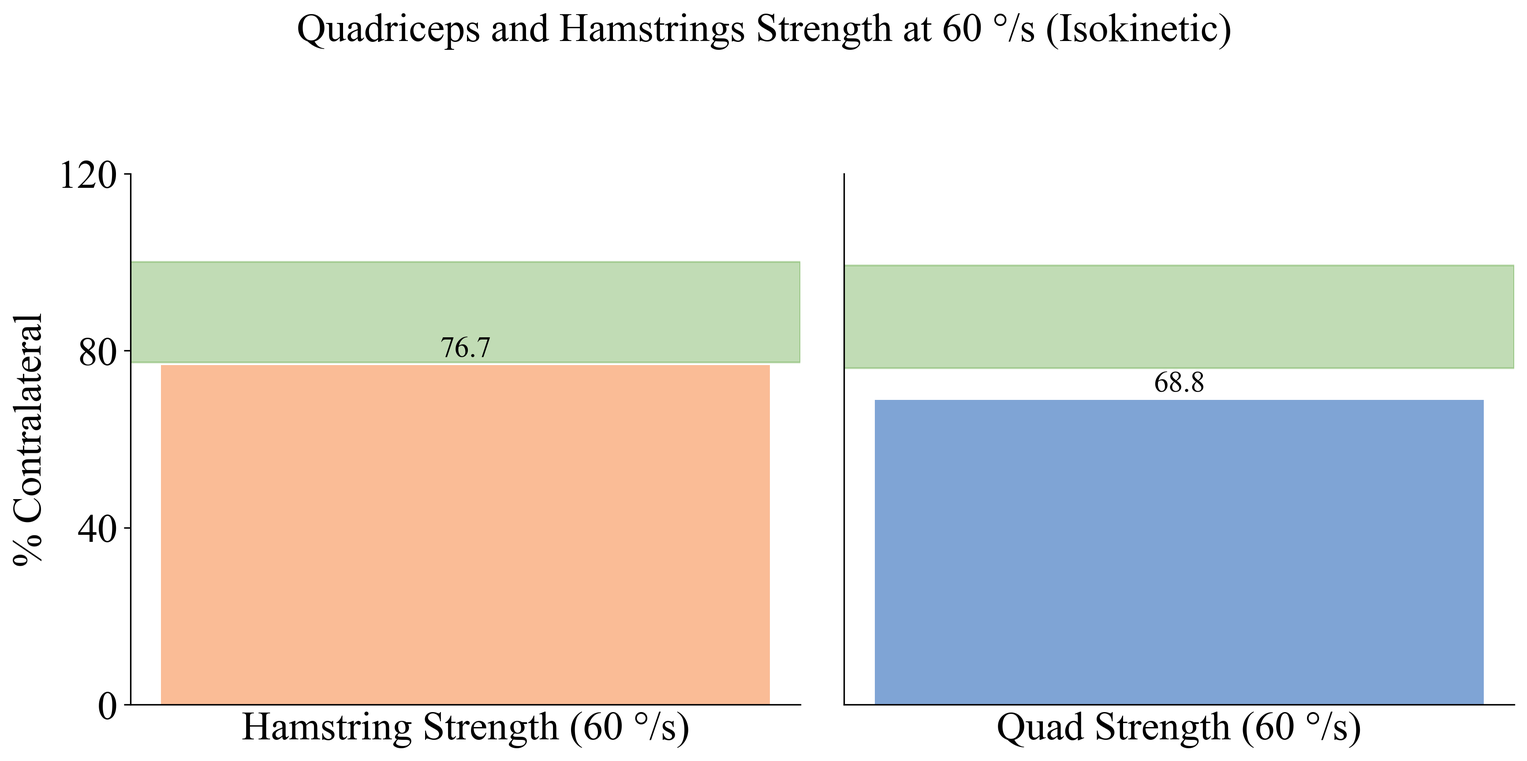
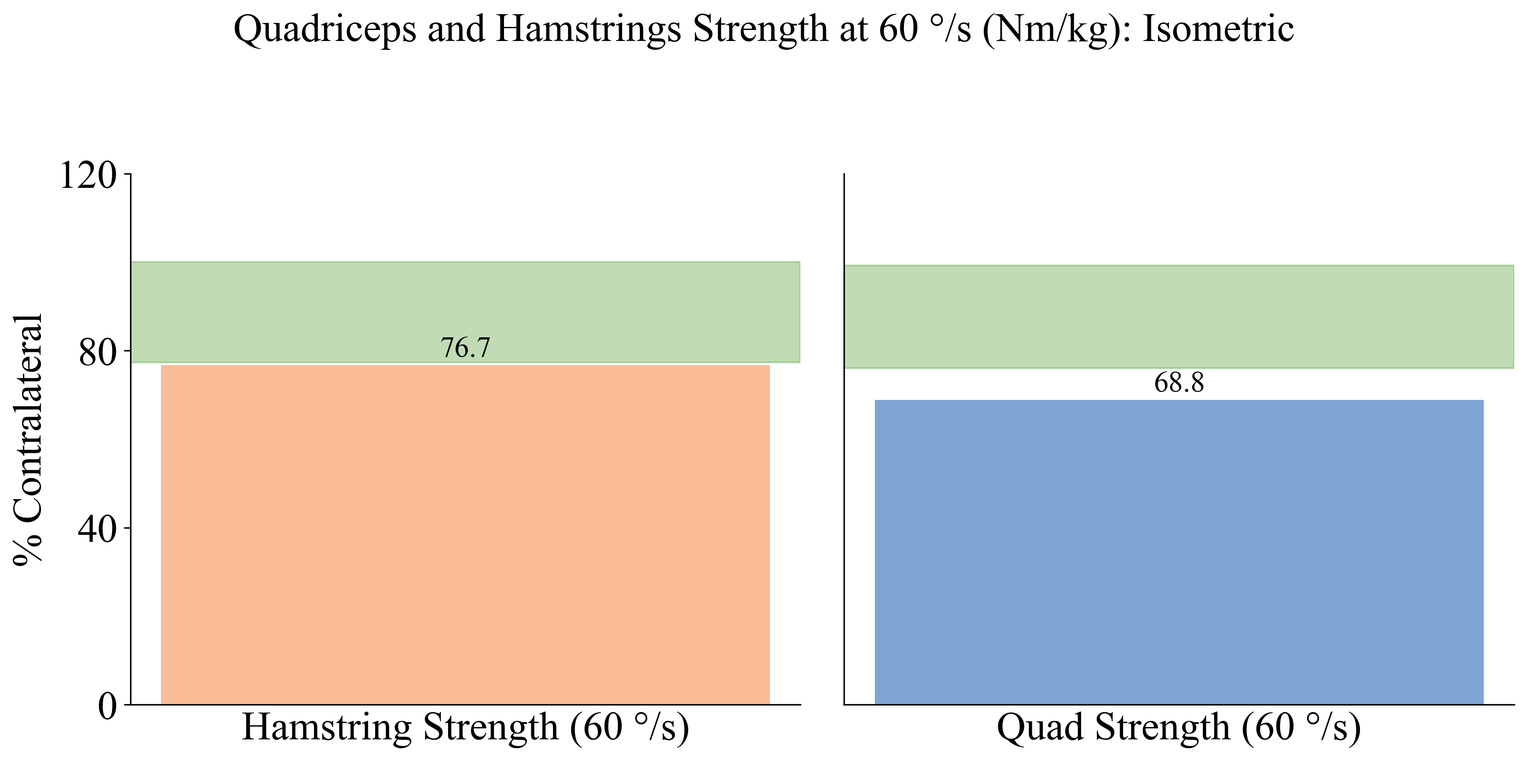
fixing titles

Changed region(s): [[0.1559, 0.0, 0.842, 0.0614]]

diff --git a/docs/dataviz.html b/docs/dataviz.html
@@ -208,7 +208,7 @@ pre > code.sourceCode > span > a:first-child::before { text-decoration: underlin
 </header>
 
 
-<div id="35de912a" class="cell" data-execution_count="1">
+<div id="361eca6f" class="cell" data-execution_count="1">
 <div class="sourceCode cell-code" id="cb1"><pre class="sourceCode python code-with-copy"><code class="sourceCode python"><span id="cb1-1"><a href="#cb1-1" aria-hidden="true" tabindex="-1"></a><span class="co">#import libraries</span></span>
 <span id="cb1-2"><a href="#cb1-2" aria-hidden="true" tabindex="-1"></a><span class="im">import</span> matplotlib.pyplot <span class="im">as</span> plt</span>
 <span id="cb1-3"><a href="#cb1-3" aria-hidden="true" tabindex="-1"></a><span class="im">import</span> numpy <span class="im">as</span> np</span>
@@ -219,15 +219,15 @@ pre > code.sourceCode > span > a:first-child::before { text-decoration: underlin
 <span id="cb1-8"><a href="#cb1-8" aria-hidden="true" tabindex="-1"></a><span class="im">import</span> warnings</span>
 <span id="cb1-9"><a href="#cb1-9" aria-hidden="true" tabindex="-1"></a>warnings.filterwarnings(<span class="st">"ignore"</span>)</span></code><button title="Copy to Clipboard" class="code-copy-button"><i class="bi"></i></button></pre></div>
 </div>
-<div id="f83a4248" class="cell" data-execution_count="2">
+<div id="47898319" class="cell" data-execution_count="2">
 <div class="sourceCode cell-code" id="cb2"><pre class="sourceCode python code-with-copy"><code class="sourceCode python"><span id="cb2-1"><a href="#cb2-1" aria-hidden="true" tabindex="-1"></a><span class="co">#Load in cleaned data</span></span>
 <span id="cb2-2"><a href="#cb2-2" aria-hidden="true" tabindex="-1"></a>data <span class="op">=</span> pd.read_csv(<span class="st">'./ACLR_data.csv'</span>)</span></code><button title="Copy to Clipboard" class="code-copy-button"><i class="bi"></i></button></pre></div>
 </div>
-<div id="e7d06db6" class="cell" data-execution_count="3">
+<div id="91e4b063" class="cell" data-execution_count="3">
 <div class="sourceCode cell-code" id="cb3"><pre class="sourceCode python code-with-copy"><code class="sourceCode python"><span id="cb3-1"><a href="#cb3-1" aria-hidden="true" tabindex="-1"></a><span class="co">#Getting an interest patient for example chart</span></span>
 <span id="cb3-2"><a href="#cb3-2" aria-hidden="true" tabindex="-1"></a>interest_patient <span class="op">=</span> data[data[<span class="st">'record_id'</span>] <span class="op">==</span> <span class="dv">1473</span>]</span></code><button title="Copy to Clipboard" class="code-copy-button"><i class="bi"></i></button></pre></div>
 </div>
-<div id="34daf524" class="cell" data-execution_count="4">
+<div id="0ad485b4" class="cell" data-execution_count="4">
 <div class="sourceCode cell-code" id="cb4"><pre class="sourceCode python code-with-copy"><code class="sourceCode python"><span id="cb4-1"><a href="#cb4-1" aria-hidden="true" tabindex="-1"></a>interest_patient.head()</span>
 <span id="cb4-2"><a href="#cb4-2" aria-hidden="true" tabindex="-1"></a><span class="bu">print</span>(interest_patient[<span class="st">'lsi_ext_mvic_60'</span>])</span></code><button title="Copy to Clipboard" class="code-copy-button"><i class="bi"></i></button></pre></div>
 <div class="cell-output cell-output-stdout">
@@ -241,7 +241,7 @@ Name: lsi_ext_mvic_60, dtype: float64</code></pre>
 2059    68.81
 2060    70.27
 Name: lsi_ext_mvic_60, dtype: float64</code></pre>
-<div id="f6ca8ad9" class="cell" data-execution_count="5">
+<div id="16876437" class="cell" data-execution_count="5">
 <div class="sourceCode cell-code" id="cb7"><pre class="sourceCode python code-with-copy"><code class="sourceCode python"><span id="cb7-1"><a href="#cb7-1" aria-hidden="true" tabindex="-1"></a>average_acl_rsi_per_visit <span class="op">=</span> data.groupby(<span class="st">'tss_dashboard'</span>)[<span class="st">'acl_rsi'</span>].mean()</span>
 <span id="cb7-2"><a href="#cb7-2" aria-hidden="true" tabindex="-1"></a><span class="bu">print</span>(<span class="st">'Mean ACL RSI at Visit:'</span>, average_acl_rsi_per_visit)</span>
 <span id="cb7-3"><a href="#cb7-3" aria-hidden="true" tabindex="-1"></a>iqr_per_time <span class="op">=</span> {}</span>
@@ -279,7 +279,7 @@ Preoperative             NaN
 Name: acl_rsi, dtype: float64
 IQR for each time period: {'13 to 24 months': 37.285, '3 to 4 months': 35.0, '5 to 7 months': 33.3, '8 to 12 months': 31.975, 'Not Reported': 37.7225, 'Preoperative': nan}
 IQR for ACL RSI: 36.67</code></pre>
-<div id="312dcb71" class="cell" data-execution_count="6">
+<div id="5214cddc" class="cell" data-execution_count="6">
 <div class="sourceCode cell-code" id="cb10"><pre class="sourceCode python code-with-copy"><code class="sourceCode python"><span id="cb10-1"><a href="#cb10-1" aria-hidden="true" tabindex="-1"></a><span class="co">#Set font and font size</span></span>
 <span id="cb10-2"><a href="#cb10-2" aria-hidden="true" tabindex="-1"></a>rcParams[<span class="st">'font.family'</span>] <span class="op">=</span> <span class="st">'Times New Roman'</span></span>
 <span id="cb10-3"><a href="#cb10-3" aria-hidden="true" tabindex="-1"></a>rcParams[<span class="st">'font.size'</span>] <span class="op">=</span> <span class="dv">22</span>  </span>
@@ -342,14 +342,14 @@ IQR for ACL RSI: 36.67</code></pre>
 </div>
 </div>
 </div>
-<div id="d457b4d7" class="cell" data-execution_count="7">
+<div id="477e7c07" class="cell" data-execution_count="7">
 <div class="sourceCode cell-code" id="cb11"><pre class="sourceCode python code-with-copy"><code class="sourceCode python"><span id="cb11-1"><a href="#cb11-1" aria-hidden="true" tabindex="-1"></a>visit1_data <span class="op">=</span> data[data[<span class="st">'redcap_event_name'</span>] <span class="op">==</span> <span class="st">'visit_1_arm_1'</span>] <span class="co">#New Dataset for only Visit 1 Data</span></span></code><button title="Copy to Clipboard" class="code-copy-button"><i class="bi"></i></button></pre></div>
 </div>
-<div id="3479d21d" class="cell" data-execution_count="8">
+<div id="b1561191" class="cell" data-execution_count="8">
 <div class="sourceCode cell-code" id="cb12"><pre class="sourceCode python code-with-copy"><code class="sourceCode python"><span id="cb12-1"><a href="#cb12-1" aria-hidden="true" tabindex="-1"></a>visit2_data <span class="op">=</span> data[data[<span class="st">'redcap_event_name'</span>] <span class="op">==</span> <span class="st">'visit_2_arm_1'</span>] <span class="co">#New Dataset for only Visit 2 Data</span></span></code><button title="Copy to Clipboard" class="code-copy-button"><i class="bi"></i></button></pre></div>
 </div>
 <p>The below code chunks calculate IQR for the Isokinetic LSI graph.</p>
-<div id="7605e07b" class="cell" data-execution_count="9">
+<div id="d01532b2" class="cell" data-execution_count="9">
 <div class="sourceCode cell-code" id="cb13"><pre class="sourceCode python code-with-copy"><code class="sourceCode python"><span id="cb13-1"><a href="#cb13-1" aria-hidden="true" tabindex="-1"></a>q1 <span class="op">=</span> visit2_data[<span class="st">'lsi_ext_isok_60'</span>].quantile(<span class="fl">0.25</span>)</span>
 <span id="cb13-2"><a href="#cb13-2" aria-hidden="true" tabindex="-1"></a>q3 <span class="op">=</span> visit2_data[<span class="st">'lsi_ext_isok_60'</span>].quantile(<span class="fl">0.75</span>)</span>
 <span id="cb13-3"><a href="#cb13-3" aria-hidden="true" tabindex="-1"></a>iqr <span class="op">=</span> q3 <span class="op">-</span> q1</span>
@@ -365,7 +365,7 @@ IQR for ACL RSI: 36.67</code></pre>
 <pre><code>65.38
 91.4
 26.02000000000001</code></pre>
-<div id="b8b3dcac" class="cell" data-execution_count="10">
+<div id="6b0ee89f" class="cell" data-execution_count="10">
 <div class="sourceCode cell-code" id="cb16"><pre class="sourceCode python code-with-copy"><code class="sourceCode python"><span id="cb16-1"><a href="#cb16-1" aria-hidden="true" tabindex="-1"></a>q21 <span class="op">=</span> visit2_data[<span class="st">'lsi_flex_isok_60'</span>].quantile(<span class="fl">0.25</span>)</span>
 <span id="cb16-2"><a href="#cb16-2" aria-hidden="true" tabindex="-1"></a>q23 <span class="op">=</span> visit2_data[<span class="st">'lsi_flex_isok_60'</span>].quantile(<span class="fl">0.75</span>)</span>
 <span id="cb16-3"><a href="#cb16-3" aria-hidden="true" tabindex="-1"></a>iqr2 <span class="op">=</span> q23 <span class="op">-</span> q21</span>
@@ -381,7 +381,7 @@ IQR for ACL RSI: 36.67</code></pre>
 <pre><code>80.9320467425
 101.671707325
 20.739660582499994</code></pre>
-<div id="8c5bc8fb" class="cell" data-execution_count="11">
+<div id="81a2e53b" class="cell" data-execution_count="11">
 <div class="sourceCode cell-code" id="cb19"><pre class="sourceCode python code-with-copy"><code class="sourceCode python"><span id="cb19-1"><a href="#cb19-1" aria-hidden="true" tabindex="-1"></a>interest_patient[<span class="st">'lsi_flex_mvic_60'</span>].value_counts() <span class="co">#getting values to graph for patient of interest (we are focusing on visit2)</span></span></code><button title="Copy to Clipboard" class="code-copy-button"><i class="bi"></i></button></pre></div>
 <div class="cell-output cell-output-display" data-execution_count="43">
 <pre><code>lsi_flex_mvic_60
@@ -396,7 +396,7 @@ Name: count, dtype: int64</code></pre>
 76.74    1
 89.58    1
 Name: count, dtype: int64</code></pre>
-<div id="34f54a60" class="cell" data-execution_count="12">
+<div id="25dc3be9" class="cell" data-execution_count="12">
 <div class="sourceCode cell-code" id="cb22"><pre class="sourceCode python code-with-copy"><code class="sourceCode python"><span id="cb22-1"><a href="#cb22-1" aria-hidden="true" tabindex="-1"></a>interest_patient[<span class="st">'lsi_ext_mvic_60'</span>].value_counts() <span class="co">#getting values to graph for patient of interest (we are focusing on visit2)</span></span></code><button title="Copy to Clipboard" class="code-copy-button"><i class="bi"></i></button></pre></div>
 <div class="cell-output cell-output-display" data-execution_count="44">
 <pre><code>lsi_ext_mvic_60
@@ -411,7 +411,7 @@ Name: count, dtype: int64</code></pre>
 68.81    1
 70.27    1
 Name: count, dtype: int64</code></pre>
-<div id="4b412c60" class="cell" data-execution_count="13">
+<div id="769aa49d" class="cell" data-execution_count="13">
 <div class="sourceCode cell-code" id="cb25"><pre class="sourceCode python code-with-copy"><code class="sourceCode python"><span id="cb25-1"><a href="#cb25-1" aria-hidden="true" tabindex="-1"></a>x_axis <span class="op">=</span> [<span class="st">'Running'</span>, <span class="st">'Squatting'</span>, <span class="st">'Landing'</span>, <span class="st">'Bilateral Jump'</span>] <span class="co">#Labels for x-axis</span></span>
 <span id="cb25-2"><a href="#cb25-2" aria-hidden="true" tabindex="-1"></a>scores <span class="op">=</span> [<span class="fl">89.4</span>, <span class="fl">76.8</span>, <span class="fl">44.3</span>, <span class="fl">68.3</span>] <span class="co">#Values to plot for the bars</span></span>
 <span id="cb25-3"><a href="#cb25-3" aria-hidden="true" tabindex="-1"></a></span>
@@ -480,7 +480,7 @@ Name: count, dtype: int64</code></pre>
 </div>
 </div>
 </div>
-<div id="79d4d09c" class="cell" data-execution_count="14">
+<div id="72fcdb1f" class="cell" data-execution_count="14">
 <div class="sourceCode cell-code" id="cb26"><pre class="sourceCode python code-with-copy"><code class="sourceCode python"><span id="cb26-1"><a href="#cb26-1" aria-hidden="true" tabindex="-1"></a>labels_mvic <span class="op">=</span> [<span class="st">'Hamstring Strength (60 °/s)'</span>] <span class="co">#First subplot label</span></span>
 <span id="cb26-2"><a href="#cb26-2" aria-hidden="true" tabindex="-1"></a>labels_isok <span class="op">=</span> [<span class="st">'Quad Strength (60 °/s)'</span>] <span class="co">#Second subplot label</span></span>
 <span id="cb26-3"><a href="#cb26-3" aria-hidden="true" tabindex="-1"></a>scores_ham <span class="op">=</span> [<span class="fl">68.75</span>] <span class="co">#LSI patient value for hamstring strength (Isokinetic)</span></span>
@@ -525,7 +525,7 @@ Name: count, dtype: int64</code></pre>
 <span id="cb26-42"><a href="#cb26-42" aria-hidden="true" tabindex="-1"></a>    ax.set_yticklabels([<span class="dv">0</span>, <span class="dv">40</span>, <span class="dv">80</span>, <span class="dv">120</span>], fontsize<span class="op">=</span><span class="dv">22</span>)</span>
 <span id="cb26-43"><a href="#cb26-43" aria-hidden="true" tabindex="-1"></a></span>
 <span id="cb26-44"><a href="#cb26-44" aria-hidden="true" tabindex="-1"></a><span class="co">#Overall Graph Title</span></span>
-<span id="cb26-45"><a href="#cb26-45" aria-hidden="true" tabindex="-1"></a>fig.suptitle(<span class="st">'Quadriceps and Hamstrings Strength at 60 °/s (Isokinetic)'</span>, fontsize<span class="op">=</span><span class="dv">22</span>)</span>
+<span id="cb26-45"><a href="#cb26-45" aria-hidden="true" tabindex="-1"></a>fig.suptitle(<span class="st">'Quadriceps and Hamstrings Strength at 60 °/s (Nm/kg): Isokinetic'</span>, fontsize<span class="op">=</span><span class="dv">22</span>)</span>
 <span id="cb26-46"><a href="#cb26-46" aria-hidden="true" tabindex="-1"></a>plt.tight_layout(rect<span class="op">=</span>[<span class="dv">0</span>, <span class="dv">0</span>, <span class="dv">1</span>, <span class="fl">0.95</span>])</span>
 <span id="cb26-47"><a href="#cb26-47" aria-hidden="true" tabindex="-1"></a></span>
 <span id="cb26-48"><a href="#cb26-48" aria-hidden="true" tabindex="-1"></a><span class="co"># Saving the graph</span></span>
@@ -541,7 +541,7 @@ Name: count, dtype: int64</code></pre>
 </div>
 </div>
 <p>The below code chunks calculate IQR for the Isometric LSI graph.</p>
-<div id="48a008d1" class="cell" data-execution_count="15">
+<div id="9f2eec20" class="cell" data-execution_count="15">
 <div class="sourceCode cell-code" id="cb27"><pre class="sourceCode python code-with-copy"><code class="sourceCode python"><span id="cb27-1"><a href="#cb27-1" aria-hidden="true" tabindex="-1"></a>q_1 <span class="op">=</span> visit2_data[<span class="st">'lsi_ext_mvic_60'</span>].quantile(<span class="fl">0.25</span>)</span>
 <span id="cb27-2"><a href="#cb27-2" aria-hidden="true" tabindex="-1"></a>q_3 <span class="op">=</span> visit2_data[<span class="st">'lsi_ext_mvic_60'</span>].quantile(<span class="fl">0.75</span>)</span>
 <span id="cb27-3"><a href="#cb27-3" aria-hidden="true" tabindex="-1"></a>iqr_1 <span class="op">=</span> q_3 <span class="op">-</span> q_1</span>
@@ -557,7 +557,7 @@ Name: count, dtype: int64</code></pre>
 <pre><code>77.27
 100.0
 22.730000000000004</code></pre>
-<div id="140ee256" class="cell" data-execution_count="16">
+<div id="a1a99940" class="cell" data-execution_count="16">
 <div class="sourceCode cell-code" id="cb30"><pre class="sourceCode python code-with-copy"><code class="sourceCode python"><span id="cb30-1"><a href="#cb30-1" aria-hidden="true" tabindex="-1"></a>q_12 <span class="op">=</span> visit2_data[<span class="st">'lsi_flex_mvic_60'</span>].quantile(<span class="fl">0.25</span>)</span>
 <span id="cb30-2"><a href="#cb30-2" aria-hidden="true" tabindex="-1"></a>q_32 <span class="op">=</span> visit2_data[<span class="st">'lsi_flex_mvic_60'</span>].quantile(<span class="fl">0.75</span>)</span>
 <span id="cb30-3"><a href="#cb30-3" aria-hidden="true" tabindex="-1"></a>iqr_2 <span class="op">=</span> q_32 <span class="op">-</span> q_12</span>
@@ -573,7 +573,7 @@ Name: count, dtype: int64</code></pre>
 <pre><code>76.065
 99.255
 23.189999999999998</code></pre>
-<div id="b7554761" class="cell" data-execution_count="17">
+<div id="b14f7d82" class="cell" data-execution_count="17">
 <div class="sourceCode cell-code" id="cb33"><pre class="sourceCode python code-with-copy"><code class="sourceCode python"><span id="cb33-1"><a href="#cb33-1" aria-hidden="true" tabindex="-1"></a>interest_patient[<span class="st">'lsi_flex_mvic_60'</span>].value_counts()</span></code><button title="Copy to Clipboard" class="code-copy-button"><i class="bi"></i></button></pre></div>
 <div class="cell-output cell-output-display" data-execution_count="49">
 <pre><code>lsi_flex_mvic_60
@@ -588,7 +588,7 @@ Name: count, dtype: int64</code></pre>
 76.74    1
 89.58    1
 Name: count, dtype: int64</code></pre>
-<div id="2e654e52" class="cell" data-execution_count="18">
+<div id="5ac7def3" class="cell" data-execution_count="18">
 <div class="sourceCode cell-code" id="cb36"><pre class="sourceCode python code-with-copy"><code class="sourceCode python"><span id="cb36-1"><a href="#cb36-1" aria-hidden="true" tabindex="-1"></a>interest_patient[<span class="st">'lsi_ext_mvic_60'</span>].value_counts()</span></code><button title="Copy to Clipboard" class="code-copy-button"><i class="bi"></i></button></pre></div>
 <div class="cell-output cell-output-display" data-execution_count="50">
 <pre><code>lsi_ext_mvic_60
@@ -603,7 +603,7 @@ Name: count, dtype: int64</code></pre>
 68.81    1
 70.27    1
 Name: count, dtype: int64</code></pre>
-<div id="cd0b43a5" class="cell" data-execution_count="19">
+<div id="c446aef7" class="cell" data-execution_count="19">
 <div class="sourceCode cell-code" id="cb39"><pre class="sourceCode python code-with-copy"><code class="sourceCode python"><span id="cb39-1"><a href="#cb39-1" aria-hidden="true" tabindex="-1"></a>labels_mvic <span class="op">=</span> [<span class="st">'Hamstring Strength (60 °/s)'</span>] <span class="co">#First subplot label</span></span>
 <span id="cb39-2"><a href="#cb39-2" aria-hidden="true" tabindex="-1"></a>labels_isok <span class="op">=</span> [<span class="st">'Quad Strength (60 °/s)'</span>] <span class="co">#Second subplot label</span></span>
 <span id="cb39-3"><a href="#cb39-3" aria-hidden="true" tabindex="-1"></a>scores_ham <span class="op">=</span> [<span class="fl">76.74</span>] <span class="co">#LSI patient value for hamstring strength (Isometric)</span></span>
@@ -648,7 +648,7 @@ Name: count, dtype: int64</code></pre>
 <span id="cb39-42"><a href="#cb39-42" aria-hidden="true" tabindex="-1"></a>    ax.set_yticklabels([<span class="dv">0</span>, <span class="dv">40</span>, <span class="dv">80</span>, <span class="dv">120</span>], fontsize<span class="op">=</span><span class="dv">22</span>)</span>
 <span id="cb39-43"><a href="#cb39-43" aria-hidden="true" tabindex="-1"></a></span>
 <span id="cb39-44"><a href="#cb39-44" aria-hidden="true" tabindex="-1"></a><span class="co">#Overall Graph Title</span></span>
-<span id="cb39-45"><a href="#cb39-45" aria-hidden="true" tabindex="-1"></a>fig.suptitle(<span class="st">'Quadriceps and Hamstrings Strength at 60 °/s (Isokinetic)'</span>, fontsize<span class="op">=</span><span class="dv">22</span>)</span>
+<span id="cb39-45"><a href="#cb39-45" aria-hidden="true" tabindex="-1"></a>fig.suptitle(<span class="st">'Quadriceps and Hamstrings Strength at 60 °/s (Nm/kg): Isometric'</span>, fontsize<span class="op">=</span><span class="dv">22</span>)</span>
 <span id="cb39-46"><a href="#cb39-46" aria-hidden="true" tabindex="-1"></a>plt.tight_layout(rect<span class="op">=</span>[<span class="dv">0</span>, <span class="dv">0</span>, <span class="dv">1</span>, <span class="fl">0.95</span>])</span>
 <span id="cb39-47"><a href="#cb39-47" aria-hidden="true" tabindex="-1"></a></span>
 <span id="cb39-48"><a href="#cb39-48" aria-hidden="true" tabindex="-1"></a><span class="co"># Saving the graph</span></span>
@@ -662,7 +662,7 @@ Name: count, dtype: int64</code></pre>
 </div>
 </div>
 </div>
-<div id="7924d40c" class="cell" data-execution_count="20">
+<div id="30aefd41" class="cell" data-execution_count="20">
 <div class="sourceCode cell-code" id="cb40"><pre class="sourceCode python code-with-copy"><code class="sourceCode python"><span id="cb40-1"><a href="#cb40-1" aria-hidden="true" tabindex="-1"></a>people <span class="op">=</span> [<span class="st">'Single Hop LSI'</span>, <span class="st">'Triple Hop LSI'</span>] <span class="co">#Different bar labels for each subplot</span></span>
 <span id="cb40-2"><a href="#cb40-2" aria-hidden="true" tabindex="-1"></a>scores <span class="op">=</span> [<span class="fl">89.0</span>, <span class="fl">77.0</span>] <span class="co">#Patient LSI for SH and TH </span></span>
 <span id="cb40-3"><a href="#cb40-3" aria-hidden="true" tabindex="-1"></a></span>
@@ -732,7 +732,7 @@ Name: count, dtype: int64</code></pre>
 </div>
 </div>
 </div>
-<div id="6cd3a692" class="cell" data-execution_count="21">
+<div id="8176ddbe" class="cell" data-execution_count="21">
 <div class="sourceCode cell-code" id="cb41"><pre class="sourceCode python code-with-copy"><code class="sourceCode python"><span id="cb41-1"><a href="#cb41-1" aria-hidden="true" tabindex="-1"></a>data[<span class="st">'tss_dashboard'</span>].value_counts()</span></code><button title="Copy to Clipboard" class="code-copy-button"><i class="bi"></i></button></pre></div>
 <div class="cell-output cell-output-display" data-execution_count="53">
 <pre><code>tss_dashboard
@@ -753,14 +753,14 @@ Not Reported        311
 13 to 24 months     192
 Preoperative         30
 Name: count, dtype: int64</code></pre>
-<div id="b225ee4c" class="cell" data-execution_count="22">
+<div id="a04f00a5" class="cell" data-execution_count="22">
 <div class="sourceCode cell-code" id="cb44"><pre class="sourceCode python code-with-copy"><code class="sourceCode python"><span id="cb44-1"><a href="#cb44-1" aria-hidden="true" tabindex="-1"></a><span class="co">#Creating groups for TSS for long term graphs</span></span>
 <span id="cb44-2"><a href="#cb44-2" aria-hidden="true" tabindex="-1"></a>group1 <span class="op">=</span> data[data[<span class="st">'tss_dashboard'</span>] <span class="op">==</span> <span class="st">'3 to 4 months'</span>]</span>
 <span id="cb44-3"><a href="#cb44-3" aria-hidden="true" tabindex="-1"></a>group2 <span class="op">=</span> data[data[<span class="st">'tss_dashboard'</span>] <span class="op">==</span> <span class="st">'5 to 7 months'</span>]</span>
 <span id="cb44-4"><a href="#cb44-4" aria-hidden="true" tabindex="-1"></a>group3 <span class="op">=</span> data[data[<span class="st">'tss_dashboard'</span>] <span class="op">==</span> <span class="st">'8 to 12 months'</span>]</span></code><button title="Copy to Clipboard" class="code-copy-button"><i class="bi"></i></button></pre></div>
 </div>
 <p>Below code chunks are math for the long term graphs for quad strength LSI (isokinetic), TH LSI, and SH LSI.</p>
-<div id="b835b2d4" class="cell" data-execution_count="23">
+<div id="c1e6f468" class="cell" data-execution_count="23">
 <div class="sourceCode cell-code" id="cb45"><pre class="sourceCode python code-with-copy"><code class="sourceCode python"><span id="cb45-1"><a href="#cb45-1" aria-hidden="true" tabindex="-1"></a>aclext1 <span class="op">=</span> group1[<span class="st">'acl_ext_isok_60'</span>].quantile(<span class="fl">.25</span>)</span>
 <span id="cb45-2"><a href="#cb45-2" aria-hidden="true" tabindex="-1"></a>aclext3 <span class="op">=</span> group1[<span class="st">'acl_ext_isok_60'</span>].quantile(<span class="fl">.75</span>)</span>
 <span id="cb45-3"><a href="#cb45-3" aria-hidden="true" tabindex="-1"></a>conext1 <span class="op">=</span> group1[<span class="st">'con_ext_isok_60'</span>].quantile(<span class="fl">.25</span>)</span>
@@ -774,7 +774,7 @@ Name: count, dtype: int64</code></pre>
 <span id="cb45-11"><a href="#cb45-11" aria-hidden="true" tabindex="-1"></a>sh1 <span class="op">=</span> group1[<span class="st">'sh_lsi'</span>].quantile(<span class="fl">.25</span>)</span>
 <span id="cb45-12"><a href="#cb45-12" aria-hidden="true" tabindex="-1"></a>sh3 <span class="op">=</span> group1[<span class="st">'sh_lsi'</span>].quantile(<span class="fl">.75</span>)</span></code><button title="Copy to Clipboard" class="code-copy-button"><i class="bi"></i></button></pre></div>
 </div>
-<div id="24240333" class="cell" data-execution_count="24">
+<div id="f74dea8d" class="cell" data-execution_count="24">
 <div class="sourceCode cell-code" id="cb46"><pre class="sourceCode python code-with-copy"><code class="sourceCode python"><span id="cb46-1"><a href="#cb46-1" aria-hidden="true" tabindex="-1"></a>thg1 <span class="op">=</span> group1[<span class="st">'th_lsi'</span>].mean()</span>
 <span id="cb46-2"><a href="#cb46-2" aria-hidden="true" tabindex="-1"></a>thg2 <span class="op">=</span> group2[<span class="st">'th_lsi'</span>].mean()</span>
 <span id="cb46-3"><a href="#cb46-3" aria-hidden="true" tabindex="-1"></a>thg3 <span class="op">=</span> group3[<span class="st">'th_lsi'</span>].mean()</span>
@@ -803,7 +803,7 @@ IQR for THG Group 3: 2.9807792516165676</code></pre>
 IQR for THG Group 1: 8.317282607500005
 IQR for THG Group 2: 1.4806782621065793
 IQR for THG Group 3: 2.9807792516165676</code></pre>
-<div id="4a67f304" class="cell" data-execution_count="25">
+<div id="df4fa9ec" class="cell" data-execution_count="25">
 <div class="sourceCode cell-code" id="cb49"><pre class="sourceCode python code-with-copy"><code class="sourceCode python"><span id="cb49-1"><a href="#cb49-1" aria-hidden="true" tabindex="-1"></a>shg1 <span class="op">=</span> group1[<span class="st">'sh_lsi'</span>].mean()</span>
 <span id="cb49-2"><a href="#cb49-2" aria-hidden="true" tabindex="-1"></a>shg2 <span class="op">=</span> group2[<span class="st">'sh_lsi'</span>].mean()</span>
 <span id="cb49-3"><a href="#cb49-3" aria-hidden="true" tabindex="-1"></a>shg3 <span class="op">=</span> group3[<span class="st">'sh_lsi'</span>].mean()</span>
@@ -819,7 +819,7 @@ IQR for THG Group 3: 2.9807792516165676</code></pre>
 <pre><code>87.59511333887096
 91.77343810911961
 94.66267309151702</code></pre>
-<div id="c5fedf0b" class="cell" data-execution_count="26">
+<div id="d008eeeb" class="cell" data-execution_count="26">
 <div class="sourceCode cell-code" id="cb52"><pre class="sourceCode python code-with-copy"><code class="sourceCode python"><span id="cb52-1"><a href="#cb52-1" aria-hidden="true" tabindex="-1"></a><span class="co">#Data (calculated above)</span></span>
 <span id="cb52-2"><a href="#cb52-2" aria-hidden="true" tabindex="-1"></a>th_means <span class="op">=</span> [thg1, thg2, thg3]</span>
 <span id="cb52-3"><a href="#cb52-3" aria-hidden="true" tabindex="-1"></a>tss_dashboard <span class="op">=</span> [<span class="st">'3-4 months'</span>, <span class="st">'5-7 months'</span>, <span class="st">'8-12 months'</span>]</span>
@@ -887,7 +887,7 @@ IQR for THG Group 3: 2.9807792516165676</code></pre>
 </div>
 </div>
 </div>
-<div id="fa056cb7" class="cell" data-execution_count="27">
+<div id="5192c397" class="cell" data-execution_count="27">
 <div class="sourceCode cell-code" id="cb53"><pre class="sourceCode python code-with-copy"><code class="sourceCode python"><span id="cb53-1"><a href="#cb53-1" aria-hidden="true" tabindex="-1"></a>interest_patient[<span class="st">'tss'</span>].value_counts() <span class="co">#seeing how far along interest patient was at the second visit (falls into second bin for long term graphs)</span></span></code><button title="Copy to Clipboard" class="code-copy-button"><i class="bi"></i></button></pre></div>
 <div class="cell-output cell-output-display" data-execution_count="59">
 <pre><code>tss
@@ -901,7 +901,7 @@ Name: count, dtype: int64</code></pre>
 7.5     1
 13.1    1
 Name: tss, dtype: int64</code></pre>
-<div id="9a8b51a6" class="cell" data-execution_count="28">
+<div id="3bff9591" class="cell" data-execution_count="28">
 <div class="sourceCode cell-code" id="cb56"><pre class="sourceCode python code-with-copy"><code class="sourceCode python"><span id="cb56-1"><a href="#cb56-1" aria-hidden="true" tabindex="-1"></a><span class="co">#Setting font</span></span>
 <span id="cb56-2"><a href="#cb56-2" aria-hidden="true" tabindex="-1"></a>rcParams[<span class="st">'font.family'</span>] <span class="op">=</span> <span class="st">'Times New Roman'</span></span>
 <span id="cb56-3"><a href="#cb56-3" aria-hidden="true" tabindex="-1"></a>rcParams[<span class="st">'font.size'</span>] <span class="op">=</span> <span class="dv">22</span></span>
@@ -972,7 +972,7 @@ Name: tss, dtype: int64</code></pre>
 </div>
 </div>
 <p>These are the calculations for the mean quad lsi (isokinetic) for the long term graph below.</p>
-<div id="1c0a6b17" class="cell" data-execution_count="29">
+<div id="a36a6b05" class="cell" data-execution_count="29">
 <div class="sourceCode cell-code" id="cb57"><pre class="sourceCode python code-with-copy"><code class="sourceCode python"><span id="cb57-1"><a href="#cb57-1" aria-hidden="true" tabindex="-1"></a>aclext <span class="op">=</span> group1[<span class="st">'acl_ext_isok_60'</span>].mean()</span>
 <span id="cb57-2"><a href="#cb57-2" aria-hidden="true" tabindex="-1"></a>conext <span class="op">=</span> group1[<span class="st">'con_ext_isok_60'</span>].mean()</span>
 <span id="cb57-3"><a href="#cb57-3" aria-hidden="true" tabindex="-1"></a>avglsi <span class="op">=</span> (aclext <span class="op">/</span> conext ) <span class="op">*</span><span class="dv">100</span></span>
@@ -982,7 +982,7 @@ Name: tss, dtype: int64</code></pre>
 </div>
 </div>
 <pre><code>64.43505233441954</code></pre>
-<div id="55825689" class="cell" data-execution_count="30">
+<div id="591c6d92" class="cell" data-execution_count="30">
 <div class="sourceCode cell-code" id="cb60"><pre class="sourceCode python code-with-copy"><code class="sourceCode python"><span id="cb60-1"><a href="#cb60-1" aria-hidden="true" tabindex="-1"></a>aclextg2 <span class="op">=</span> group2[<span class="st">'acl_ext_isok_60'</span>].mean()</span>
 <span id="cb60-2"><a href="#cb60-2" aria-hidden="true" tabindex="-1"></a>conextg2 <span class="op">=</span> group2[<span class="st">'con_ext_isok_60'</span>].mean()</span>
 <span id="cb60-3"><a href="#cb60-3" aria-hidden="true" tabindex="-1"></a>avglsig2 <span class="op">=</span> (aclextg2 <span class="op">/</span> conextg2 ) <span class="op">*</span><span class="dv">100</span></span>
@@ -992,7 +992,7 @@ Name: tss, dtype: int64</code></pre>
 </div>
 </div>
 <pre><code>76.32076941124286</code></pre>
-<div id="f3ce3a30" class="cell" data-execution_count="31">
+<div id="131d9cee" class="cell" data-execution_count="31">
 <div class="sourceCode cell-code" id="cb63"><pre class="sourceCode python code-with-copy"><code class="sourceCode python"><span id="cb63-1"><a href="#cb63-1" aria-hidden="true" tabindex="-1"></a>aclextg3 <span class="op">=</span> group3[<span class="st">'acl_ext_isok_60'</span>].mean()</span>
 <span id="cb63-2"><a href="#cb63-2" aria-hidden="true" tabindex="-1"></a>conextg3 <span class="op">=</span> group3[<span class="st">'con_ext_isok_60'</span>].mean()</span>
 <span id="cb63-3"><a href="#cb63-3" aria-hidden="true" tabindex="-1"></a>avglsig3 <span class="op">=</span> (aclextg3 <span class="op">/</span> conextg3 ) <span class="op">*</span><span class="dv">100</span></span>
@@ -1002,7 +1002,7 @@ Name: tss, dtype: int64</code></pre>
 </div>
 </div>
 <pre><code>77.91215082321446</code></pre>
-<div id="83dac871" class="cell" data-execution_count="32">
+<div id="57c10fe3" class="cell" data-execution_count="32">
 <div class="sourceCode cell-code" id="cb66"><pre class="sourceCode python code-with-copy"><code class="sourceCode python"><span id="cb66-1"><a href="#cb66-1" aria-hidden="true" tabindex="-1"></a><span class="co">#Setting Font</span></span>
 <span id="cb66-2"><a href="#cb66-2" aria-hidden="true" tabindex="-1"></a>rcParams[<span class="st">'font.family'</span>] <span class="op">=</span> <span class="st">'Times New Roman'</span></span>
 <span id="cb66-3"><a href="#cb66-3" aria-hidden="true" tabindex="-1"></a>rcParams[<span class="st">'font.size'</span>] <span class="op">=</span> <span class="dv">22</span></span>

diff --git a/docs/index.html b/docs/index.html
@@ -135,7 +135,7 @@ ul.task-list li input[type="checkbox"] {
         <li class="sidebar-item">
   <div class="sidebar-item-container"> 
   <a href="./dataviz.html" class="sidebar-item-text sidebar-link">
- <span class="menu-text"><span class="chapter-number">1</span>&nbsp; <span class="chapter-title">Data Visualizations</span></span></a>
+ <span class="menu-text">Data Visualizations</span></a>
   </div>
 </li>
         <li class="sidebar-item">
@@ -227,6 +227,7 @@ Charlottesville, VA</p>
 <p>The results of the functional, strength, and physiological assessments presented in a LEAP report are critical in determining whether a patient is ready to return to sport or physical activity. While the original LEAP report may have scored highly in terms of physician utility, its use of medical jargon, arbitrary benchmarks (e.g., 80%, 85%, 90%), lack of long-term data, and poor aesthetic design limited its effectiveness in communicating meaningful information to patients.</p>
 <p>Defining terms such as isokinetic, isometric, LSI, and RSI allows patients to better understand and interpret the graphs presented to them. LSI, or Limb Symmetry Index, refers to the functional symmetry between the injured limb and the uninjured limb. In ACL recovery, muscle imbalances and asymmetry are common due to weakness in the injured leg. A low LSI indicates that the patient is not yet ready to return to physical activity. RSI, or Return to Sport Index, is a psychological measure of a patient’s self-perceived readiness to return to sport. This metric is also important in assessing overall recovery. The updated LEAP report includes a graph showing the upward trend of RSI scores as time since surgery increases, offering greater context and insight than merely listing the patient’s current RSI score.</p>
 <p>The improved report enables patients to better understand the data presented, compare their progress to others at similar recovery stages, and identify target milestones for their next visit. A report that fails to effectively communicate this critical information will be less helpful in guiding patients through their ACL recovery journey.</p>
+<p><strong>Link to GitHub Repository:</strong> https://github.com/dqb5ee/final-project</p>
 
 
 </section>
